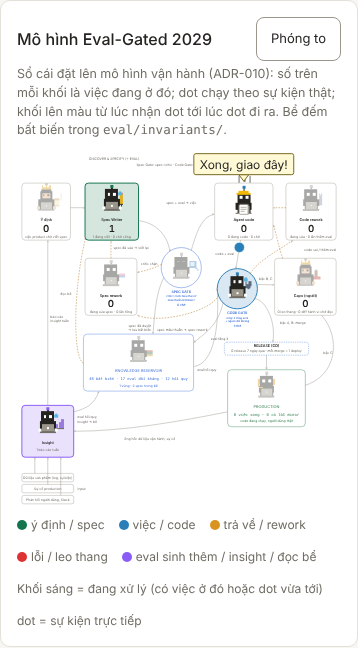
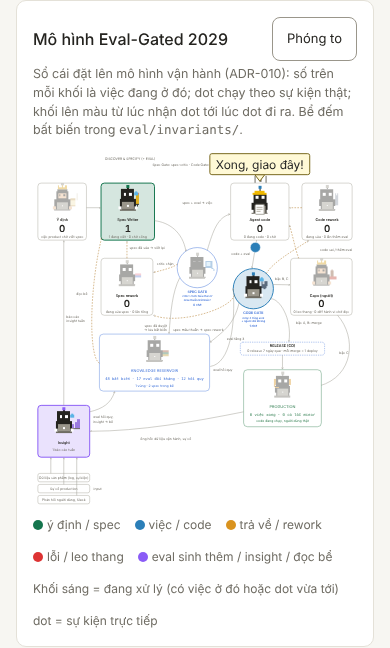
[T-036] Giữ nguyên keyframes mc-* cũ (eval T-031 C11), biên độ mới ở mch-*; ảnh sau-390/truoc-390 rộng 390px
Claude-Session: https://claude.ai/code/session_01UGMXKqieLcV2K1vphWF5EZ

diff --git a/index.html b/index.html
@@ -183,23 +183,29 @@ footer a{color:inherit}
 #model .mch[data-anim=work] .hands{animation:mc-tap .3s steps(1,end) infinite}
 #model .mch[data-anim=work] [data-part=lamp]{animation:mc-lamp .8s steps(1,end) infinite}
 #model .mch[data-anim=wait] .mv{animation:mc-wait 1.6s steps(1,end) infinite}
-#model .mch[data-anim=take] .mv{animation:mc-take 1.2s steps(1,end) 1}
-#model .mch[data-anim=give][data-dir=right] .mv{animation:mc-gr 1.2s steps(1,end) 1}
-#model .mch[data-anim=give][data-dir=left] .mv{animation:mc-gl 1.2s steps(1,end) 1}
-#model .mch[data-anim=give][data-dir=down] .mv{animation:mc-gd 1.2s steps(1,end) 1}
-#model .mch[data-anim=give][data-dir=up] .mv{animation:mc-gu 1.2s steps(1,end) 1}
+#model .mch[data-anim=take] .mv{animation:mch-take 1.2s steps(1,end) 1}
+#model .mch[data-anim=give][data-dir=right] .mv{animation:mch-gr 1.2s steps(1,end) 1}
+#model .mch[data-anim=give][data-dir=left] .mv{animation:mch-gl 1.2s steps(1,end) 1}
+#model .mch[data-anim=give][data-dir=down] .mv{animation:mch-gd 1.2s steps(1,end) 1}
+#model .mch[data-anim=give][data-dir=up] .mv{animation:mch-gu 1.2s steps(1,end) 1}
 @keyframes mc-bl{0%,94%{transform:scaleY(1)}95%,99%{transform:scaleY(.15)}}
 @keyframes mc-sw{0%{opacity:1;transform:translateY(0)}40%{opacity:1;transform:translateY(2px)}70%{opacity:0;transform:translateY(3px)}}
 @keyframes mc-q{0%{opacity:1}55%{opacity:0}}
-@keyframes mc-work{0%{transform:translateY(0)}50%{transform:translateY(-2px)}}
+@keyframes mc-work{0%{transform:translateY(0)}50%{transform:translateY(-3px)}}
 @keyframes mc-tap{0%{transform:translateY(0)}50%{transform:translateY(-3px)}}
 @keyframes mc-lamp{0%{opacity:1}50%{opacity:.35}}
 @keyframes mc-wait{0%{transform:translateX(0)}25%{transform:translateX(2px)}50%{transform:translateX(0)}75%{transform:translateX(-2px)}}
-@keyframes mc-take{0%{transform:translateY(0)}10%{transform:translateY(-9px)}30%{transform:translateY(-9px)}45%{transform:translateY(-2px)}60%{transform:translateY(-7px)}80%{transform:translateY(0)}}
-@keyframes mc-gr{0%{transform:translateX(0)}12%{transform:translateX(4.5px)}30%{transform:translateX(9px)}60%{transform:translateX(9px)}75%{transform:translateX(4.5px)}90%{transform:translateX(0)}}
-@keyframes mc-gl{0%{transform:translateX(0)}12%{transform:translateX(-4.5px)}30%{transform:translateX(-9px)}60%{transform:translateX(-9px)}75%{transform:translateX(-4.5px)}90%{transform:translateX(0)}}
-@keyframes mc-gd{0%{transform:translateY(0)}12%{transform:translateY(4.5px)}30%{transform:translateY(9px)}60%{transform:translateY(9px)}75%{transform:translateY(4.5px)}90%{transform:translateY(0)}}
-@keyframes mc-gu{0%{transform:translateY(0)}12%{transform:translateY(-4.5px)}30%{transform:translateY(-9px)}60%{transform:translateY(-9px)}75%{transform:translateY(-4.5px)}90%{transform:translateY(0)}}
+@keyframes mc-take{0%{transform:translateY(0)}10%{transform:translateY(-4px)}30%{transform:translateY(-4px)}45%{transform:translateY(-1px)}60%{transform:translateY(-3px)}80%{transform:translateY(0)}}
+@keyframes mc-gr{0%{transform:translateX(0)}12%{transform:translateX(2px)}30%{transform:translateX(4px)}60%{transform:translateX(4px)}75%{transform:translateX(2px)}90%{transform:translateX(0)}}
+@keyframes mc-gl{0%{transform:translateX(0)}12%{transform:translateX(-2px)}30%{transform:translateX(-4px)}60%{transform:translateX(-4px)}75%{transform:translateX(-2px)}90%{transform:translateX(0)}}
+@keyframes mc-gd{0%{transform:translateY(0)}12%{transform:translateY(2px)}30%{transform:translateY(4px)}60%{transform:translateY(4px)}75%{transform:translateY(2px)}90%{transform:translateY(0)}}
+@keyframes mc-gu{0%{transform:translateY(0)}12%{transform:translateY(-2px)}30%{transform:translateY(-4px)}60%{transform:translateY(-4px)}75%{transform:translateY(-2px)}90%{transform:translateY(0)}}
+/* T-036: biên độ theo cỡ thân mới (nhân vật phóng 2,2 lần: 9px cục bộ = 19,8 đơn vị). Bản mc-take/gr/gl/gd/gu ở trên giữ nguyên, không còn dùng (eval T-031 C11 O3 đòi luật CSS cũ còn nguyên). */
+@keyframes mch-take{0%{transform:translateY(0)}10%{transform:translateY(-9px)}30%{transform:translateY(-9px)}45%{transform:translateY(-2px)}60%{transform:translateY(-7px)}80%{transform:translateY(0)}}
+@keyframes mch-gr{0%{transform:translateX(0)}12%{transform:translateX(4.5px)}30%{transform:translateX(9px)}60%{transform:translateX(9px)}75%{transform:translateX(4.5px)}90%{transform:translateX(0)}}
+@keyframes mch-gl{0%{transform:translateX(0)}12%{transform:translateX(-4.5px)}30%{transform:translateX(-9px)}60%{transform:translateX(-9px)}75%{transform:translateX(-4.5px)}90%{transform:translateX(0)}}
+@keyframes mch-gd{0%{transform:translateY(0)}12%{transform:translateY(4.5px)}30%{transform:translateY(9px)}60%{transform:translateY(9px)}75%{transform:translateY(4.5px)}90%{transform:translateY(0)}}
+@keyframes mch-gu{0%{transform:translateY(0)}12%{transform:translateY(-4.5px)}30%{transform:translateY(-9px)}60%{transform:translateY(-9px)}75%{transform:translateY(-4.5px)}90%{transform:translateY(0)}}
 @media (prefers-reduced-motion:reduce){#model .mch,#model .mch *,#model .bub,#model .bub *{animation:none !important;transition:none !important}}
 #fx_b{pointer-events:none}#fx_b text{font-family:inherit;fill:#222}#fx_b .bub rect,#fx_b .bub path{fill:#fff9d6;stroke:#7a6a20;stroke-width:1;vector-effect:non-scaling-stroke}
 #model .mhead{display:flex;align-items:center;justify-content:space-between;gap:12px}
